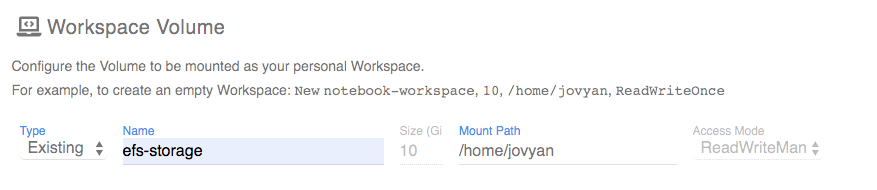
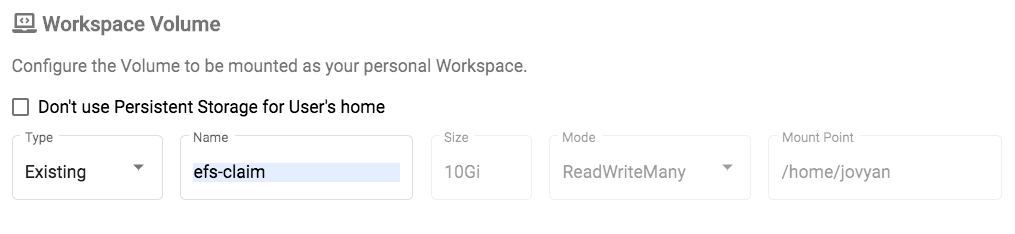
Update AWS storage options doc (#1864)
* Update AWS storage options doc

* Comment on EFS permission limitation

* Remove mountOptions

* Address code review feedbacks

diff --git a/content/docs/aws/storage.md b/content/docs/aws/storage.md
@@ -15,10 +15,9 @@ By default, the Amazon EFS CSI driver is not enabled and you need to follow step
 ### Deploy the Amazon EFS CSI Plugin
 
 ```shell
-cd ${KF_DIR}/ks_app
-export COMPONENT=aws-efs-csi-driver
-ks generate aws-efs-csi-driver ${COMPONENT}
-ks apply default -c ${COMPONENT}
+git clone https://github.com/kubeflow/manifests
+cd manifests/aws
+kubectl apply -k aws-efs-csi-driver/base
 ```
 
 ### Static Provisioning
@@ -27,11 +26,89 @@ You can go to the [Amazon EFS console](https://us-west-2.console.aws.amazon.com/
 Please pay special attention to the Security Groups, and make sure that traffic to NFS port 2049 is allowed.
 Then you will get a file system ID and you can use it to create persistent volumes and persistent volume claims.
 
-```shell
-cd ${KF_DIR}/ks_app
-export COMPONENT=efs-storage
-ks generate aws-efs-pv ${COMPONENT} --efsId=${your_file_system_id}
-ks apply default -c ${COMPONENT}
+For EKS user using eksctl, you can choose `ClusterSharedNodeSecurityGroup`.
+<img src="/docs/images/aws/efs-create.png"
+  alt="Amazon EFS Create"
+  class="mt-3 mb-3 border border-info rounded">
+
+
+You will need to create storage class for the first time, save as `efs-sc.yaml` and run `kubectl apply -f efs-sc.yaml`.
+```yaml
+apiVersion: storage.k8s.io/v1
+metadata:
+  name: efs-sc
+provisioner: efs.csi.aws.com
+```
+
+Replace `<your_efs_id>` with your efs id, save as `efs-pv.yaml` and run `kubectl apply -f efs-pv.yaml`.
+```yaml
+apiVersion: v1
+kind: PersistentVolume
+metadata:
+  name: efs-pv
+spec:
+  capacity:
+    storage: 5Gi
+  volumeMode: Filesystem
+  accessModes:
+    - ReadWriteMany
+  persistentVolumeReclaimPolicy: Retain
+  storageClassName: efs-sc
+  csi:
+    driver: efs.csi.aws.com
+    volumeHandle: <your_efs_id>
+```
+
+Replace `<your_namespace>` with your namespace, save as `efs-claim.yaml` and run `kubectl apply -f efs-claim.yaml`.
+
+```yaml
+apiVersion: v1
+kind: PersistentVolumeClaim
+metadata:
+  name: efs-claim
+  namespace: <your_namespace>
+spec:
+  accessModes:
+    - ReadWriteMany
+  storageClassName: efs-sc
+  resources:
+    requests:
+      storage: 5Gi
+```
+
+By default, new Amazon EFS file systems are owned by `root:root`, and only the root user (UID 0) has read-write-execute permissions. If your containers are not running as root, you must change the Amazon EFS file system permissions to allow other users to modify the file system.
+
+In order to share EFS between notebooks, we need to create a sample pod like below to change permission for the storage. If you use EFS for other purpose like sharing data across pipelines, you don't need following step.
+
+Replace `<your_namespace>` with your namespace, save as `job.yaml` and run `kubectl apply -f job.yaml`.
+
+```yaml
+apiVersion: batch/v1
+kind: Job
+metadata:
+  name: set-permission
+  namespace: <your_namespace>
+spec:
+  template:
+    metadata:
+      annotations:
+        sidecar.istio.io/inject: "false"
+    spec:
+      restartPolicy: Never
+      containers:
+      - name: app
+        image: centos
+        command: ["/bin/sh"]
+        args:
+        - "-c"
+        - "chmod 2775 /data && chown root:users /data"
+        volumeMounts:
+        - name: persistent-storage
+          mountPath: /data
+      volumes:
+      - name: persistent-storage
+        persistentVolumeClaim:
+          claimName: efs-claim
 ```
 
 Use Amazon EFS as a notebook volume when you create Jupyter notebooks.
@@ -48,34 +125,87 @@ Lustre is another file system that supports `ReadWriteMany`. Once difference bet
 
 ### Deploy the Amazon FSx CSI Plugin
 
+Make sure your node group instance has right permission. Check details [here](https://github.com/kubernetes-sigs/aws-fsx-csi-driver#set-up-driver-permission).
+
 ```shell
-cd ${KF_DIR}/ks_app
-export COMPONENT=aws-fsx-csi-driver
-ks generate aws-fsx-csi-driver ${COMPONENT}
-ks apply default -c ${COMPONENT}
+git clone https://github.com/kubeflow/manifests
+cd manifests/aws
+kubectl apply -k aws-fsx-csi-driver/base
 ```
 
 ### Static Provisioning
 
-You can statically provision Amazon FSx for Lustre and then pass the file system ID and DNS name to generate persistent volumes and persistent volume claims. It will create default storage class `fsx-default`.
+You can statically provision Amazon FSx for Lustre and then pass the file system ID, DNS name and mount name, to generate persistent volumes and persistent volume claims.
 
-```shell
-cd ${KF_DIR}/ks_app
-export COMPONENT=fsx-static-storage
+You can choose deployment type based on your needs. Check more details [here](https://docs.aws.amazon.com/fsx/latest/LustreGuide/using-fsx-lustre.html).
 
-ks generate aws-fsx-pv-static ${COMPONENT} --fsxId=fs-048xxxx7c25 --dnsName=fs-048xxxx7c25.fsx.us-west-2.amazonaws.com
+<img src="/docs/images/aws/fsx-create.png"
+  alt="Amazon FSX Create Volume"
+  class="mt-3 mb-3 border border-info rounded">
 
-ks apply default -c ${COMPONENT}
+FSX only supports single availability zone. Choose the right subnet based on your node group setting.
+
+<img src="/docs/images/aws/fsx-network.png"
+  alt="Amazon FSX Network Settings"
+  class="mt-3 mb-3 border border-info rounded">
+
+After you finish creating a FSX for Lustre file system, you will have everything you need to create Persistent Volumes and Persistent Volume Claim. `File System ID`, `DNS Name` and `Mount Name` will be used later.
+
+<img src="/docs/images/aws/fsx-assets.png"
+  alt="Amazon FSX Network Settings"
+  class="mt-3 mb-3 border border-info rounded">
+
+Save following manifest as yaml files and run `kubectl apply -f <file_name>.yaml`
+
+```
+apiVersion: v1
+kind: PersistentVolume
+metadata:
+  name: fsx-pv
+spec:
+  capacity:
+    storage: 1200Gi
+  volumeMode: Filesystem
+  accessModes:
+    - ReadWriteMany
+  mountOptions:
+    - flock
+  persistentVolumeReclaimPolicy: Recycle
+  csi:
+    driver: fsx.csi.aws.com
+    volumeHandle: <your_fsx_volume_handle>
+    volumeAttributes:
+      dnsname: <your_fsx_dnsname>
+      mountname: <your_fsx_mountname>
 ```
 
+```yaml
+apiVersion: v1
+kind: PersistentVolumeClaim
+metadata:
+  name: fsx-claim
+  namespace: <your_namespace>
+spec:
+  accessModes:
+    - ReadWriteMany
+  storageClassName: ""
+  resources:
+    requests:
+      storage: 1200Gi
+  volumeName: fsx-pv
+```
 
 Once your persistent volume claim is ready, you can claim in your workloads like this:
 
-```shell
-volumes:
-- name: persistent-storage
-  persistentVolumeClaim:
-    claimName: fsx-static-storage
+```yaml
+...pod template ...
+    volumeMounts:
+    - name: persistent-storage
+      mountPath: /data
+  volumes:
+  - name: persistent-storage
+    persistentVolumeClaim:
+      claimName: fsx-claim
 ```
 
 
@@ -85,17 +215,5 @@ You can dynamically provision Amazon FSx for Lustre filesystems for your high pe
 
 If you already have a training dataset in Amazon S3, you can pass your bucket name optionally and this will be used by Amazon FSx for Lustre as a data repository and your file system will be ready with the training dataset.
 
-It will create Storage Class, Persistent Volume, and PersistentVolumeClaim Kubernetes resources for you.
-
-```shell
-cd ${KF_DIR}/ks_app
-export COMPONENT=fsx-dynamic-storage
-
-ks generate aws-fsx-pv-dynamic ${COMPONENT} --securityGroupIds=sg-0c380xxxxxxxx --subnetId=subnet-007f9cxxxxxxx
-ks param set ${COMPONENT} s3ImportPath s3://your_dataset_bucket
-
-ks apply default -c ${COMPONENT}
-```
-
-In your workloads, you just need to mount the volume and use `${COMPONENT}` as your persistent volume claim name. It takes roughly 5-7 minutes to get storage ready.
+Check dynamic provisioning example [here](https://github.com/kubernetes-sigs/aws-fsx-csi-driver/tree/master/examples/kubernetes/dynamic_provisioning).
 
